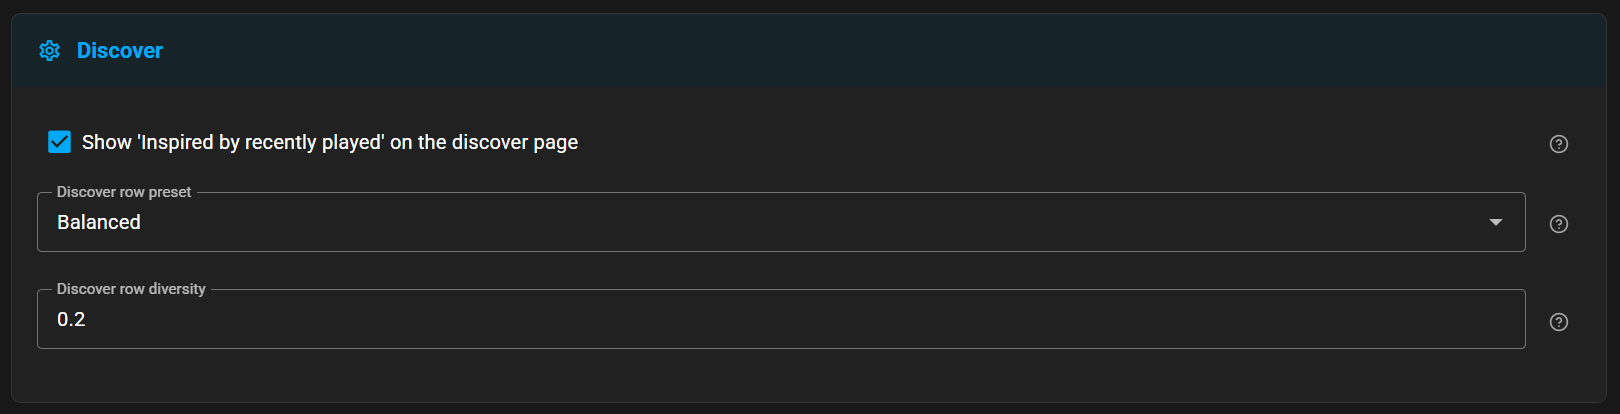
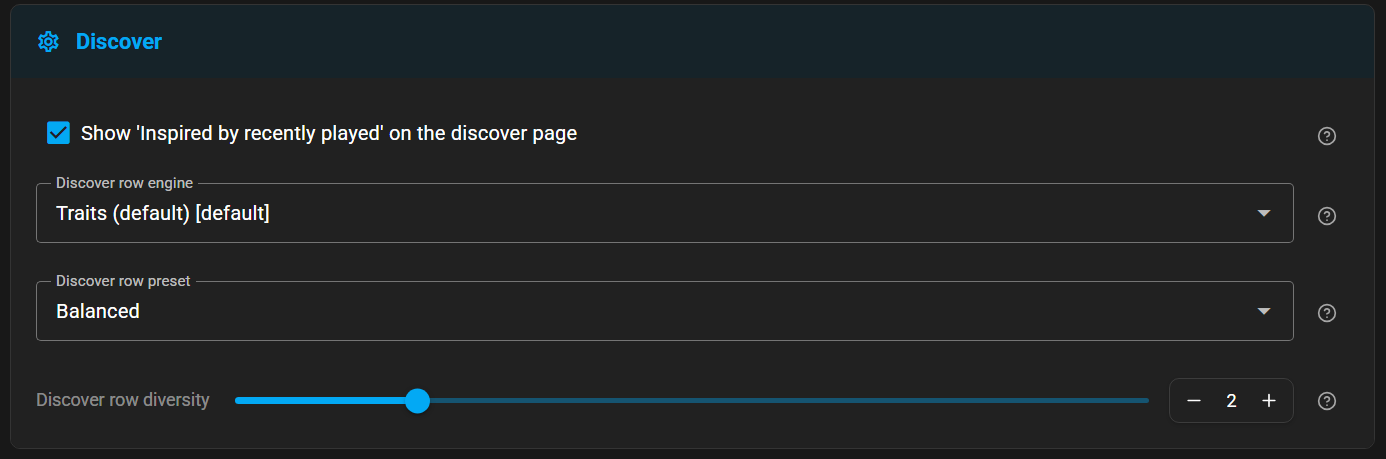
docs(plugins): restructure Sonic Similarity config and rename indexes (#705)
## Summary
Follow-up to #700 covering the next round of Sonic Similarity changes
that have landed in the UI.

### Panel restructure
The settings page now has four panels instead of three:

- **Generic** — slimmed down to just *Enable Character index* and
*Enable free-text search*
- **Similarity search** (new) — holds the *Similar Tracks engine*,
*preset* and *diversity* controls that previously sat in Generic
- **Discover** — gained a *Discover row engine* dropdown to match
Similarity search, so Similar Tracks and the discover row can
independently choose Traits or Character
- **Status** — dropped the always-on rebuild buttons; *Rebuild Traits
index* and *Rebuild Character index* now live under the **Advanced**
toggle on the page

### Index rename
- **18-dim** → **Traits** — *"Matches on measured sound traits — tempo,
energy, loudness, key"*
- **CLAP** → **Character** — *"Matches on overall character — how a
listener would describe the sound"*

The *Microsoft CLAP* credit in the Credits section is preserved as the
upstream model name.

### Other doc tweaks
- Subsections reordered to match the UI page order (Generic / Similarity
search / Discover / Status)
- Diversity controls described as 0–10 sliders to match the new UI
- The closing *Similarity presets* note rewritten to reflect that both
Similar Tracks and the discover row now have explicit engine / preset /
diversity controls
- Screenshots: `setup-screen-status.png` removed; `setup-similarity.png`
[…]

Pull request: docs(plugins): restructure Sonic Similarity config and rename indexes
## Summary
Follow-up to #700 covering the next round of Sonic Similarity changes that have landed in the UI.

### Panel restructure
The settings page now has four panels instead of three:

- **Generic** — slimmed down to just *Enable Character index* and *Enable free-text search*
- **Similarity search** (new) — holds the *Similar Tracks engine*, *preset* and *diversity* controls that previously sat in Generic
- **Discover** — gained a *Discover row engine* dropdown to match Similarity search, so Similar Tracks and the discover row can independently choose Traits or Character
- **Status** — dropped the always-on rebuild buttons; *Rebuild Traits index* and *Rebuild Character index* now live under the **Advanced** toggle on the page

### Index rename
- **18-dim** → **Traits** — *"Matches on measured sound traits — tempo, energy, loudness, key"*
- **CLAP** → **Character** — *"Matches on overall character — how a listener would describe the sound"*

The *Microsoft CLAP* credit in the Credits section is preserved as the upstream model name.

### Other doc tweaks
- Subsections reordered to match the UI page order (Generic / Similarity search / Discover / Status)
- Diversity controls described as 0–10 sliders to match the new UI
- The closing *Similarity presets* note rewritten to reflect that both Similar Tracks and the discover row now have explicit engine / preset / diversity controls
[…]

diff --git a/src/content/docs/plugins/sonic-similarity.md b/src/content/docs/plugins/sonic-similarity.md
@@ -36,23 +36,23 @@ And — unless it is disabled in the settings — an **Inspired by recently play
 
 ## How it works
 
-Three engines run inside the plugin. The 18-dim engine is always on; the CLAP and free-text engines are independently toggleable from the configuration page.
+Three engines run inside the plugin. The Traits engine is always on; the Character and Free-Text Search engines are independently toggleable from the configuration page.
 
-### 18-dim engine (always on)
+### Traits engine (always on)
 
-Builds a small per-track signature from the measurable features that Sonic Analysis produces — BPM, energy, loudness, brightness, key/mode, dynamics, and so on — and ranks neighbours using one of the configurable weight presets. The name reflects how many features feed into each signature. Cheap to build, cheap to query, and fits comfortably in memory for libraries of tens of thousands of tracks.
+Matches on measured sound traits — tempo, energy, loudness, key, and so on. The engine builds a small per-track signature from those measurements and ranks neighbours using one of the configurable weight presets. Cheap to build, cheap to query, and fits comfortably in memory for libraries of tens of thousands of tracks.
 
 This engine powers the Similar Tracks menu, radio mode, and the discover row by default.
 
-### CLAP semantic similarity (opt-in)
+### Character engine (opt-in)
 
-Builds a second search index over the audio fingerprints that Sonic Analysis already stores for every track. Track-to-track similarity here is closer to *"this feels like that"* than to *"these have similar BPM"* — useful when a song's mood or texture matters more than its measurable properties.
+Matches on overall character — how a listener would describe the sound. The engine builds a second search index over the audio fingerprints that Sonic Analysis already stores for every track; the resulting matches lean toward *"this feels like that"* rather than *"these have similar tempo"*, which is useful when a song's mood or texture matters more than its measurable properties.
 
 No extra downloads are required; the fingerprints are already on disk from Sonic Analysis.
 
 ### Free-text search (opt-in)
 
-Turns a natural-language phrase like *"super dancy disco track"* into the same kind of fingerprint used for tracks, then returns the tracks whose sound is closest. Enabling this implicitly turns on the CLAP index above, since both features share the same model.
+Turns a natural-language phrase like *"super dancy disco track"* into the same kind of fingerprint used for tracks, then returns the tracks whose sound is closest. Enabling this implicitly turns on the Character engine above, since both features share the same model.
 
 The first time free-text search is loaded, about 500 MB of language model files download to the server. 
 
@@ -60,7 +60,7 @@ The first time free-text search is loaded, about 500 MB of language model files 
 
 ## Configuration
 
-The plugin appears in **Settings → Providers → Add Provider → Plugins** once installed. All settings live on a single configuration page made up of three panels: **Generic**, **Status**, and **Discover**.
+The plugin is installed via **Settings → Plugins → Add a Plugin**. All settings live on a single configuration page made up of four panels: **Generic**, **Similarity search**, **Discover**, and **Status**.
 
 ### Generic
 
@@ -68,41 +68,53 @@ The plugin appears in **Settings → Providers → Add Provider → Plugins** on
 
 | Setting | Description |
 |---|---|
-| **Enable CLAP embedding index** | Builds a second on-disk index over the CLAP audio fingerprints already produced by Sonic Analysis. Off by default. |
-| **Similar Tracks engine** | Which engine powers library-wide Similar Tracks. The **18-dim weighted** option ranks by measurable features (BPM, energy, loudness, key, etc.); the **CLAP 1024-dim semantic** option ranks by the audio fingerprint and returns no results for tracks that do not yet have one. Only appears when the CLAP index is enabled. Defaults to 18-dim. |
-| **Similar Tracks preset** | Weight preset applied when the 18-dim engine is in use. See [Similarity presets](#similarity-presets) below for what each preset favours. Only appears when the 18-dim engine is selected. Defaults to Balanced. |
-| **Similar Tracks diversity** | A value from 0 to 1. `0.0` keeps results closest to the seed; `1.0` maximises variety. Only appears when the 18-dim engine is selected. Defaults to `0.0`. |
-| **Enable free-text search** | Enables natural-language track search. The first use lazily downloads about 500 MB of language model files to the server. Turning this on implicitly enables the CLAP index above, since both features share the same model. Off by default. |
+| **Enable Character index** | Builds a second on-disk index over the audio fingerprints already produced by Sonic Analysis. Off by default. |
+| **Enable free-text search** | Enables natural-language track search. On first use about 500 MB of language model files are lazily downloaded to the server. |
 
-Toggling **Enable CLAP embedding index** or **Enable free-text search** requires the plugin to reload before the new feature set takes effect.
+Toggling either of these requires the plugin to reload before the new feature set takes effect.
 
-### Status
+### Similarity search
 
-The Status panel shows the current health of each engine and gives you a manual rebuild button. Both engines build their indexes in the background — refresh the page after starting a rebuild to see updated counts.
+Controls how the library-wide **Similar Tracks** action picks its matches.
 
-![Sonic Similarity Status panel](/assets/screenshots/sonic-similarity/setup-screen-status.png)
+![Sonic Similarity Similarity search panel](/assets/screenshots/sonic-similarity/setup-similarity.png)
 
-| Element | Meaning |
+| Setting | Description |
 |---|---|
-| **18-dim engine status row** | Shows how many tracks are indexed, how many signatures are cached, whether the engine is ready to serve queries (shown in the UI as *corpus stats ready*), and — when available — how its coverage compares to Sonic Analysis' analysed / pending counts. If a background rebuild fails, the error message is appended to this line. |
-| **Rebuild 18-dim index** | Re-scans all stored signatures and rebuilds the 18-dim search index. Runs in the background. |
-| **CLAP engine status row** | Shows the number of CLAP fingerprints indexed and the current coverage. Only present when the CLAP engine is enabled. |
-| **Rebuild CLAP index** | Incrementally adds any new fingerprints to the CLAP index. Runs in the background. Only present when the CLAP engine is enabled. |
-| **Text encoder status row** | Shows whether the text encoder is loaded (*warm*) or *cold* — i.e. whether the language model files will be downloaded on the next query. Only present when free-text search is enabled. |
+| **Similar Tracks engine** | Which engine powers library-wide Similar Tracks. The **Traits** option matches on measured sound traits — tempo, energy, loudness, key. The **Character** option matches on overall character — how a listener would describe the sound — and returns no results for tracks that do not yet have a fingerprint. Only appears when the Character index is enabled. Defaults to Traits. |
+| **Similar Tracks preset** | Weight preset applied when the Traits engine is in use. See [Similarity presets](#similarity-presets) below for what each preset favours. Only appears when the Traits engine is selected. Defaults to Balanced. |
+| **Similar Tracks diversity** | Slider from 0 to 10. `0` keeps results closest to the seed; `10` maximises variety. Only appears when the Traits engine is selected. |
 
 ### Discover
 
-![Discover row settings: enable toggle, preset and diversity](/assets/screenshots/sonic-similarity/setup-discover.png)
+Controls the **Inspired by recently played** row on the discover page.
+
+![Sonic Similarity Discover panel](/assets/screenshots/sonic-similarity/setup-discover.png)
 
 | Setting | Description |
 |---|---|
 | **Show 'Inspired by recently played' on the discover page** | Adds a discover-page row seeded by your recently-played tracks. On by default. Disable this to suppress the row without uninstalling the plugin. |
-| **Discover row preset** | Similarity weight preset used to rank candidates for the row. See [Similarity presets](#similarity-presets) below for what each preset favours. |
-| **Discover row diversity** | A value from 0 to 1. `0.0` keeps results closest to the seeds; `1.0` maximises variety — some results may be less similar individually, but the row as a whole will be more varied. |
+| **Discover row engine** | Which engine powers the discover row — same options as the Similar Tracks engine in the Similarity search panel. Only appears when the Character index is enabled. Defaults to Traits. |
+| **Discover row preset** | Similarity weight preset used to rank candidates for the row. See [Similarity presets](#similarity-presets) below for what each preset favours. Only appears when the Traits engine is selected. |
+| **Discover row diversity** | Slider from 0 to 10. `0` keeps results closest to the seeds; `10` maximises variety — some results may be less similar individually, but the row as a whole will be more varied. Only appears when the Traits engine is selected. |
+
+### Status
+
+Shows the current health of each engine — number of tracks indexed, coverage, and whether the optional text encoder is loaded. Manual rebuild buttons live behind the **Advanced** toggle on the same page and are not needed in normal use; both engines build and refresh their indexes automatically in the background.
+
+![Sonic Similarity Status panel](/assets/screenshots/sonic-similarity/setup-status.png)
+
+| Element | Meaning |
+|---|---|
+| **Traits engine status row** | Shows how many tracks are indexed, how many signatures are cached, whether the engine is ready to serve queries (shown in the UI as *corpus stats ready*), and, when available, how its coverage compares to Sonic Analysis' analysed / pending counts. |
+| **Rebuild Traits index** *(Advanced)* | Re-scans all stored signatures and rebuilds the Traits search index from scratch. Runs in the background. Only present when **Advanced** settings are shown. |
+| **Character engine status row** | Shows the number of fingerprints indexed and the current coverage. Only present when the Character engine is enabled. |
+| **Rebuild Character index** *(Advanced)* | Incrementally adds any new fingerprints to the Character index. Runs in the background. Only present when **Advanced** settings are shown and the Character engine is enabled. |
+| **Text encoder status row** | Shows whether the text encoder is loaded; *warm* or *cold*. When cold, the language model files (~500 MB) will be downloaded on the next free-text query. Only present when free-text search is enabled. |
 
 ## Similarity presets
 
-The 18-dim engine groups its features and applies a per-group weight when ranking. The five built-in presets bias those weights toward different listening intents:
+The Traits engine groups its features and applies a per-group weight when ranking. The five built-in presets bias those weights toward different listening intents:
 
 | Preset | What it favours |
 |---|---|
@@ -112,14 +124,14 @@ The 18-dim engine groups its features and applies a per-group weight when rankin
 | **Genre + Era** | Key and harmonic features, plus genre and era bonuses, dominate. Stays close to the seed's genre and decade. |
 | **Discover (novelty-leaning)** | Timbre and mood matter most; genre and era are deliberately downweighted so the row is allowed to drift outside the seed's neighbourhood. |
 
-The **Similar Tracks** action (configured in the Generic panel) and the **Inspired by recently played** discover row (configured in the Discover panel) select a preset and diversity independently, so they can lean different ways — for instance, Similar Tracks can stay close to the seed while the discover row drifts toward novelty.
+The **Similar Tracks** action (configured in the Similarity search panel) and the **Inspired by recently played** discover row (configured in the Discover panel) each select an engine, preset, and diversity independently, so they can lean different ways — for instance, Similar Tracks can stay close to the seed while the discover row drifts toward novelty.
 
 ## Known Issues / Notes
 
-- The search indexes live under the Music Assistant data directory as derived caches. They are safe to delete — the next plugin start (or a manual rebuild) will recreate them from the existing track analyses.
-- Toggling the CLAP or free-text search options or changing the options for the Discovery Page requires the plugin to reload before the new feature set takes effect.
+- The search indexes live under the Music Assistant data directory as derived caches. They are safe to delete — the next plugin start will recreate them from the existing track analyses.
+- Toggling **Enable Character index** or **Enable free-text search**, or changing the options for the Discover panel, requires the plugin to reload before the new feature set takes effect.
 
 ## Credits
 
-- [Microsoft CLAP](https://github.com/microsoft/CLAP) — the joint audio + text model behind the optional CLAP similarity and free-text search engines.
+- [Microsoft CLAP](https://github.com/microsoft/CLAP) — the joint audio + text model behind the optional Character similarity and free-text search engines.
 - [unum-cloud/usearch](https://github.com/unum-cloud/usearch) — the fast similarity search library used by both engines.